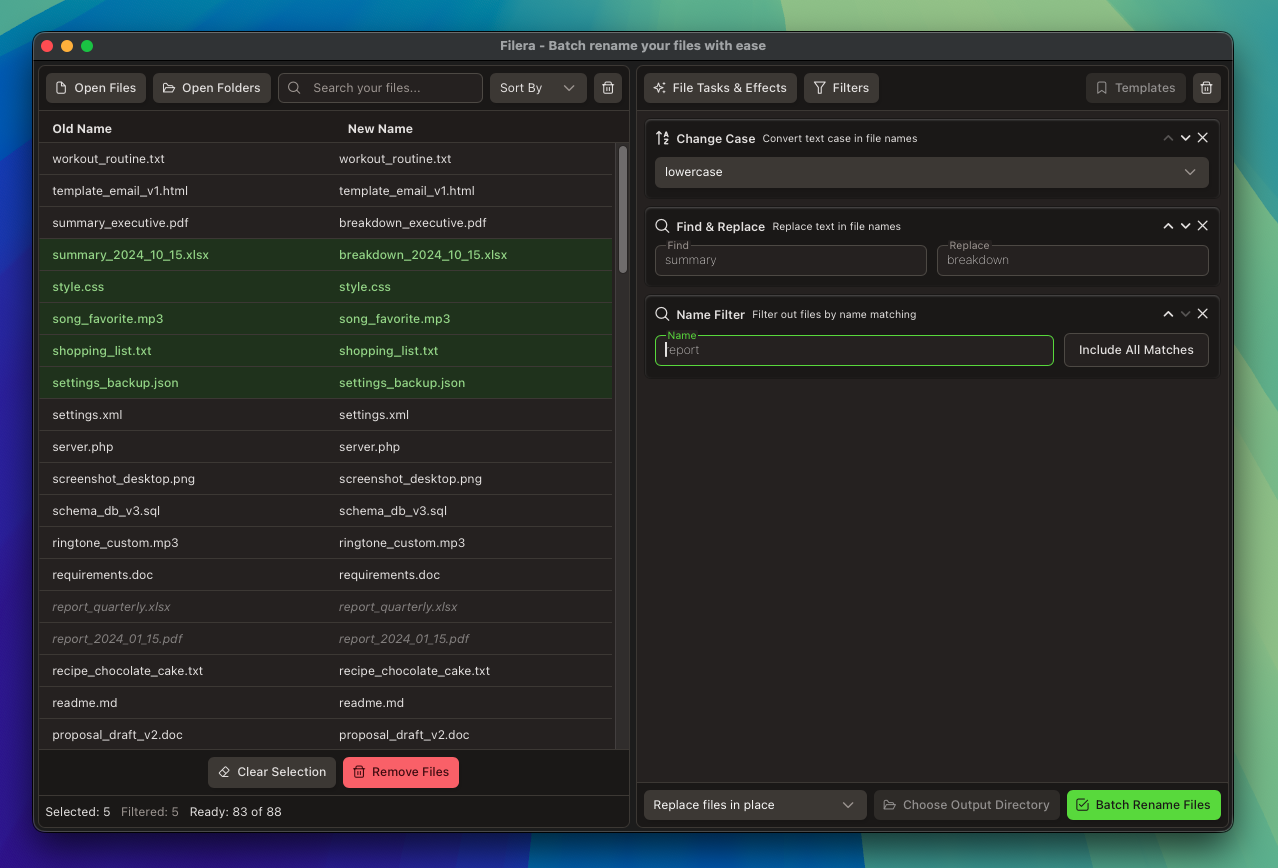
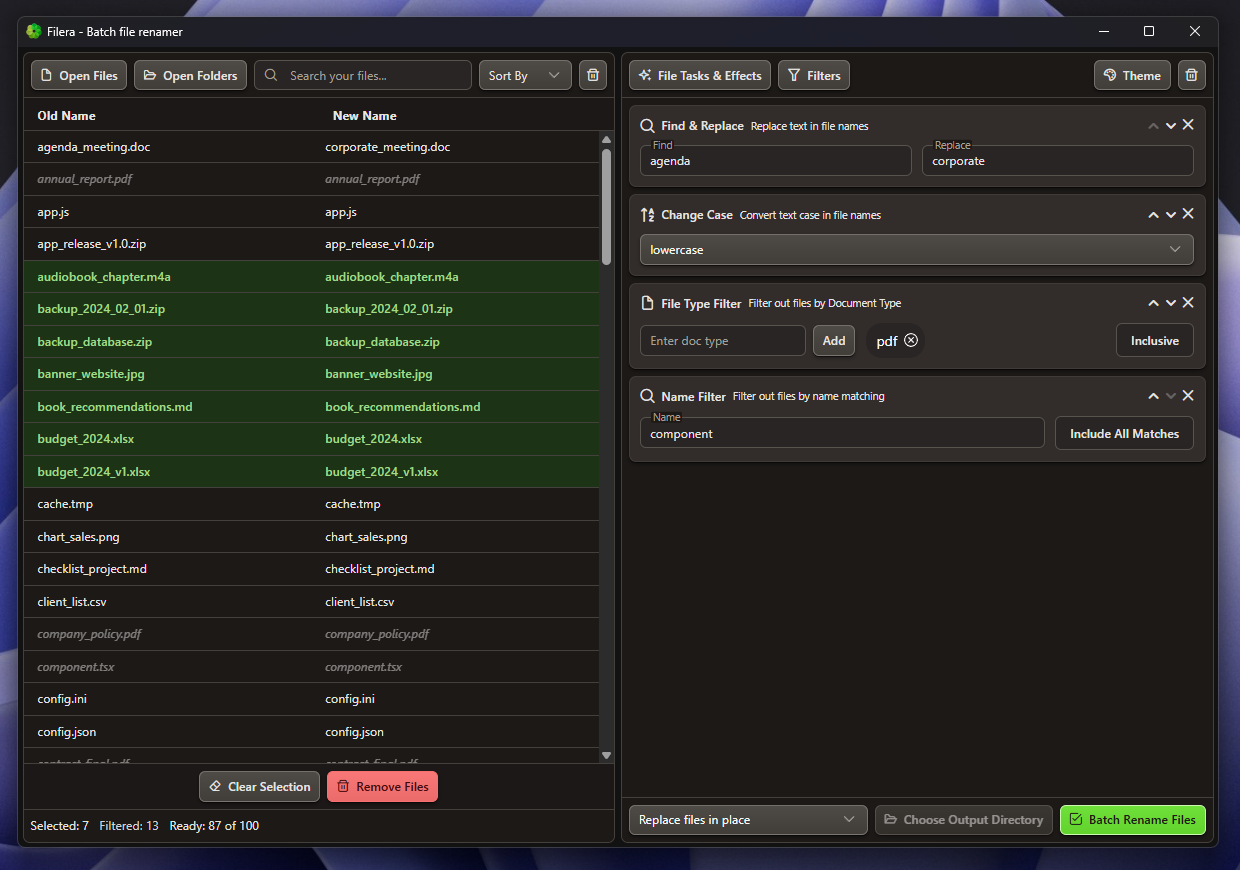
feat: readme update (badges + updated ui screenshot)

Changed region(s): [[0.0, 0.0, 1.0, 1.0]]

diff --git a/README.md b/README.md
@@ -1,4 +1,13 @@
 # Filera
+
+[![Tests](https://github.com/joncorv/filera/actions/workflows/test.yml/badge.svg)](https://github.com/joncorv/filera/actions/workflows/test.yml)
+[![Release](https://img.shields.io/github/v/release/joncorv/filera?display_name=release)](https://github.com/joncorv/filera/releases/latest)
+[![Downloads](https://img.shields.io/github/downloads/joncorv/filera/total)](https://github.com/joncorv/filera/releases)
+[![License: MIT](https://img.shields.io/badge/license-MIT-blue)](LICENSE)
+[![Platforms](https://img.shields.io/badge/platforms-macOS%20%7C%20Windows%20%7C%20Linux%20%7C%20NixOS-lightgrey)](https://github.com/joncorv/filera/releases/latest)
+[![Built with Tauri](https://img.shields.io/badge/built%20with-Tauri-24C8DB?logo=tauri)](https://tauri.app)
+[![Cachix](https://img.shields.io/badge/cachix-filera-blue)](https://app.cachix.org/cache/filera)
+
 A cross-platform desktop application for batch file renaming, built with Tauri (Rust + Vue 3).
 
 ![filera app ui](src/assets/app_ui.png?raw=true "Filera App UI")
